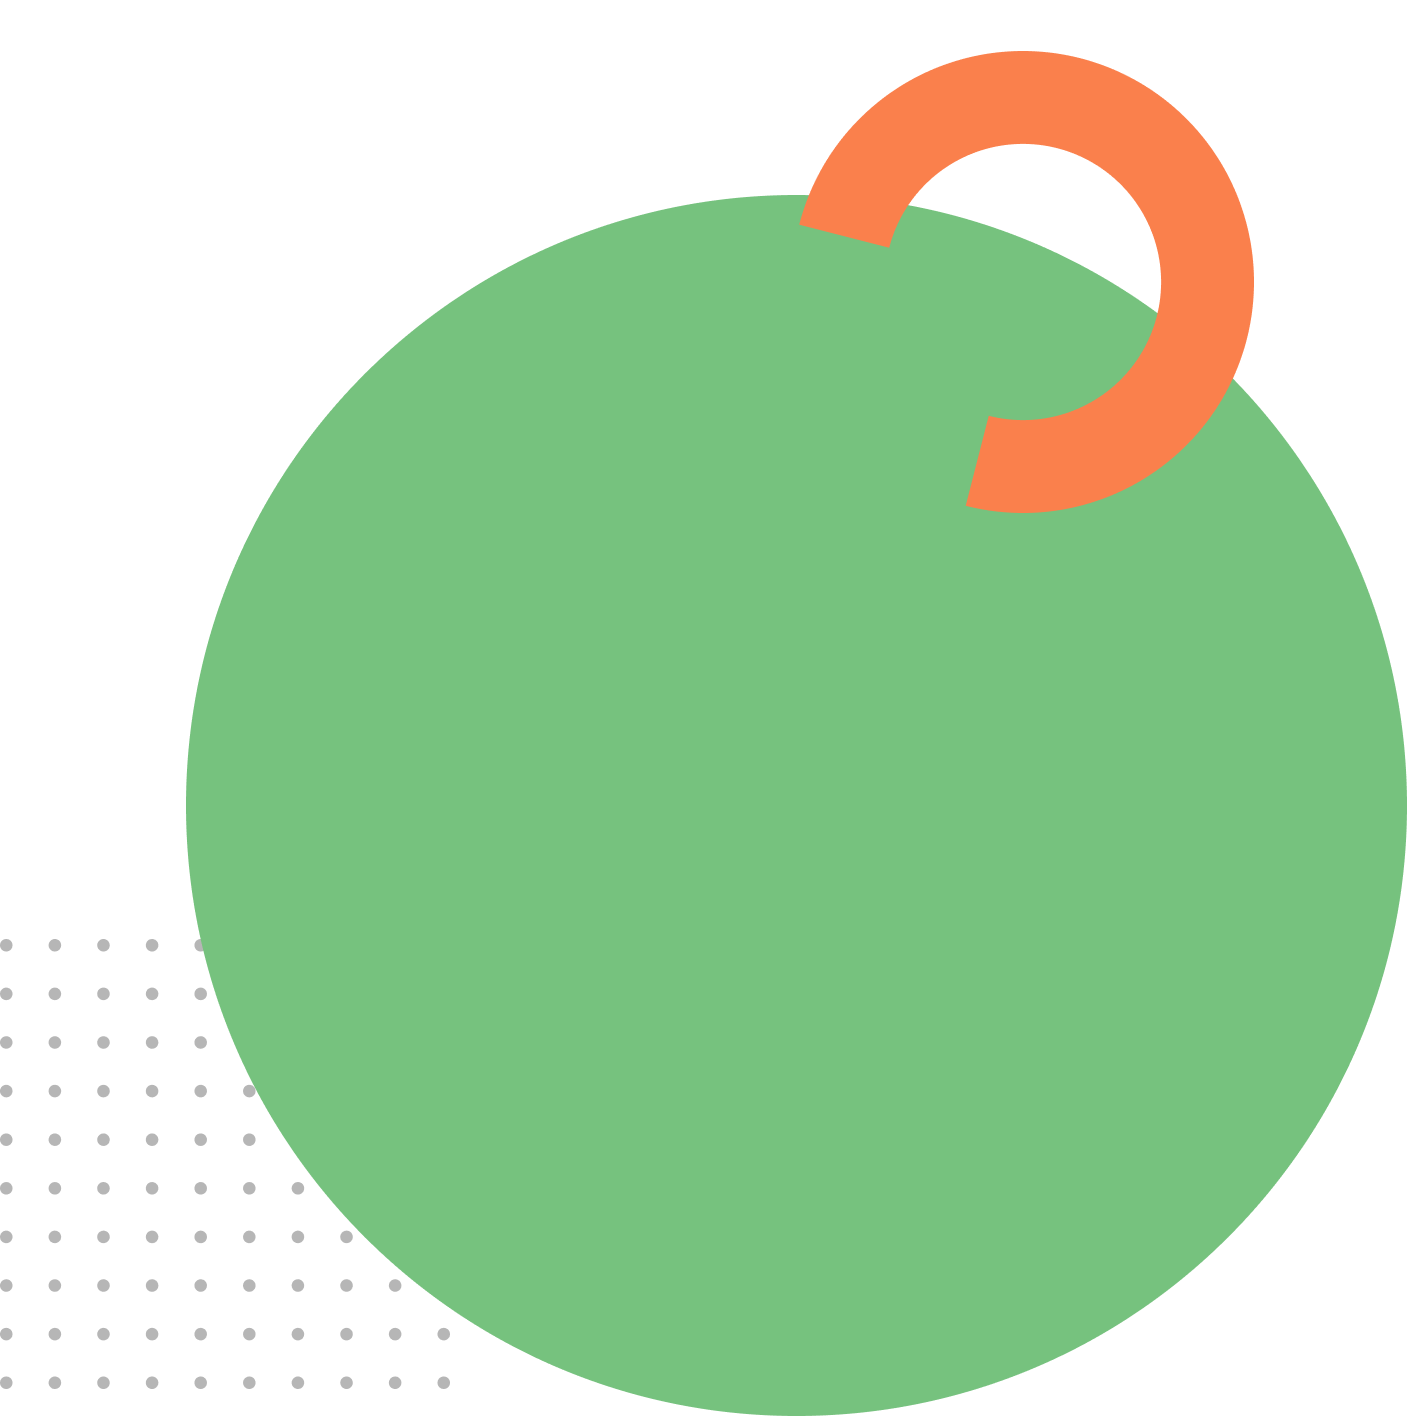
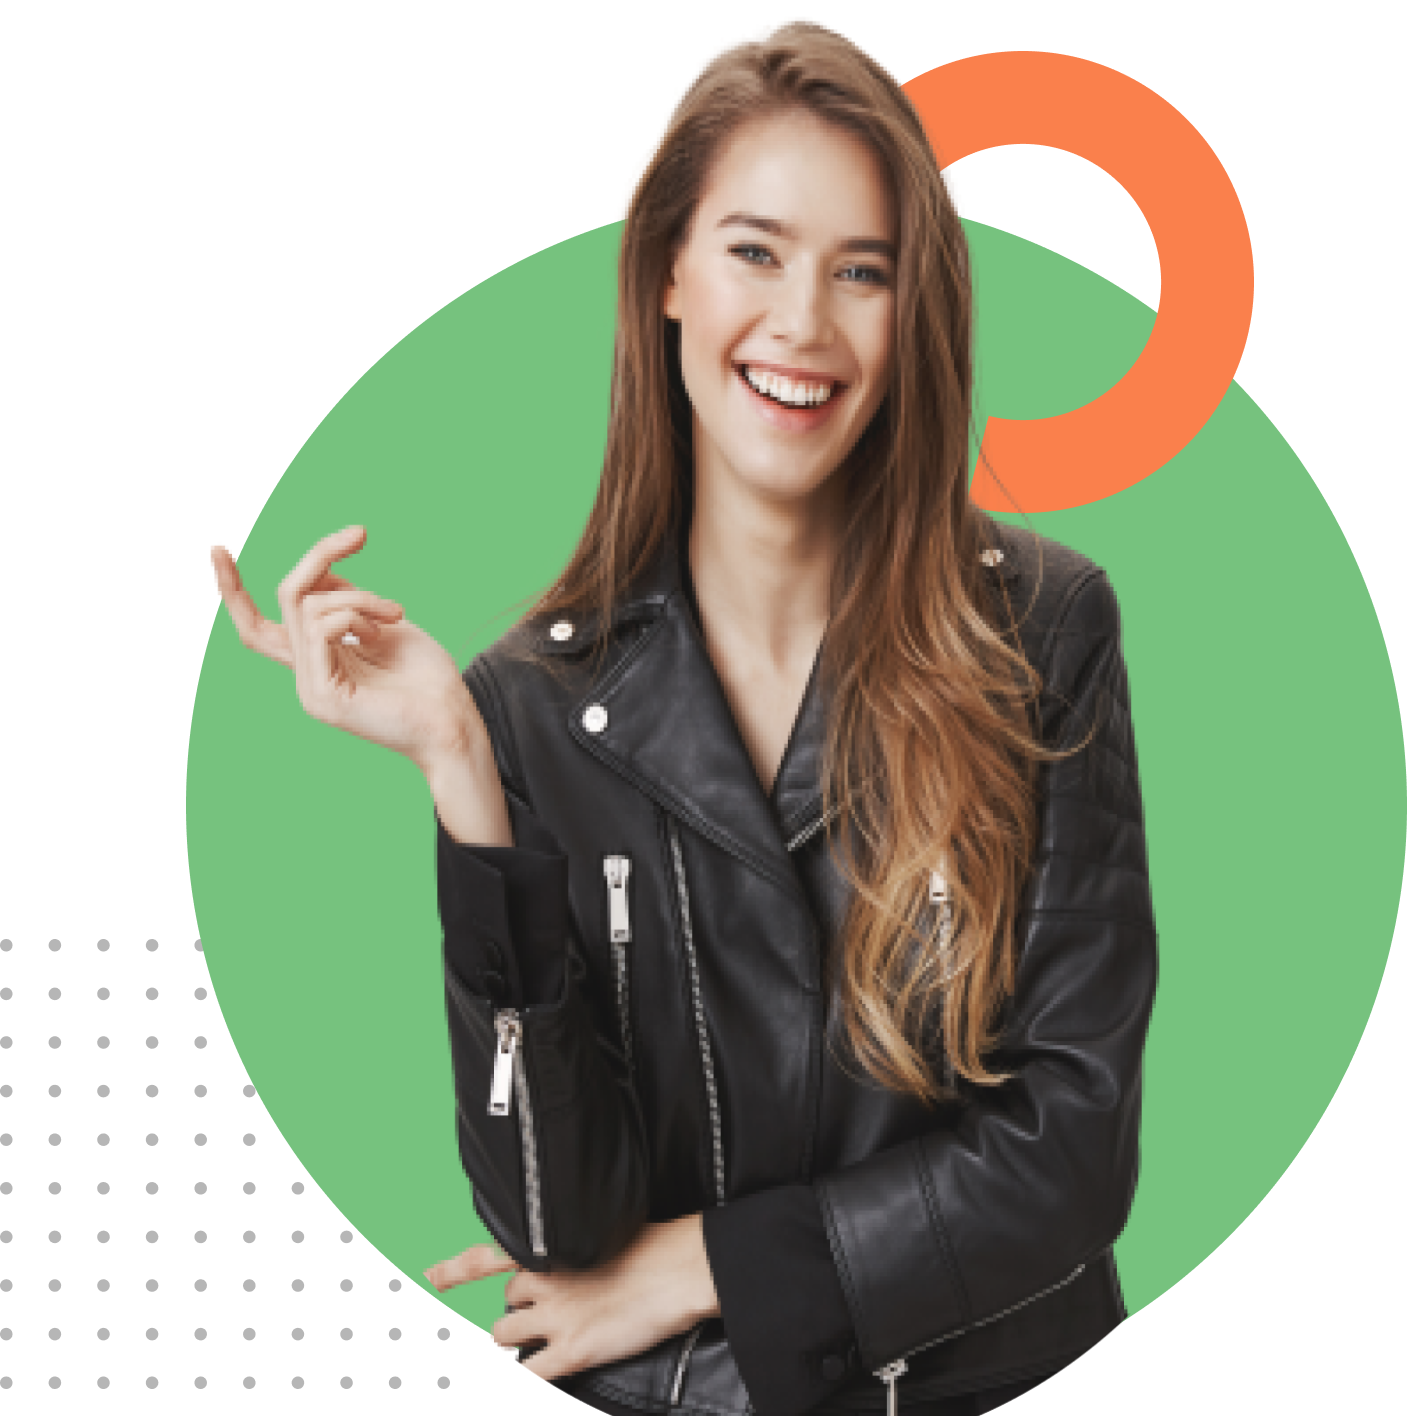
add my web-site

diff --git a/index.html b/index.html
@@ -4,8 +4,228 @@
     <meta charset="UTF-8">
     <meta name="viewport" content="width=device-width, initial-scale=1.0">
     <title>my-first-bootstrap-website</title>
+    <link href="https://cdn.jsdelivr.net/npm/bootstrap@5.0.0-beta1/dist/css/bootstrap.min.css" rel="stylesheet" integrity="sha384-giJF6kkoqNQ00vy+HMDP7azOuL0xtbfIcaT9wjKHr8RbDVddVHyTfAAsrekwKmP1" crossorigin="anonymous">
+    <link rel="stylesheet" href="style.css">
 </head>
 <body>
-    
+
+
+
+    <header class="container">
+    <nav class="navbar navbar-expand-lg navbar-light bg-light sticky-top">
+        <div class="container-fluid">
+          <a href=""><img style="width:60%;" src="images/Group 33072.png" alt=""></a>
+          <button class="navbar-toggler" type="button" data-bs-toggle="collapse" data-bs-target="#navbarNav" aria-controls="navbarNav" aria-expanded="false" aria-label="Toggle navigation">
+            <span class="navbar-toggler-icon"></span>
+          </button>
+          <div class="collapse navbar-collapse justify-content-end" id="navbarNav">
+            <ul class="navbar-nav">
+              <li class="nav-item">
+                <a class="nav-link active" aria-current="page" href="#home">Home</a>
+              </li>
+              <li class="nav-item">
+                <a class="nav-link" href="#product">Product</a>
+              </li>
+              <li class="nav-item">
+                <a class="nav-link" href="www.gmail.com">About us</a>
+              </li>
+              <li class="nav-item">
+                <a class="nav-link" href="www.gmail.com" tabindex="-1" aria-disabled="true">Contact us</a>
+              </li>
+            </ul>
+          </div>
+        </div>
+      </nav>
+
+
+
+      
+          
+            <div class="row">
+
+                <div class="col-md-6 mt-5">
+                <h1>BE THE PENGUINS</h1>
+                <H1>OF WINTER</H1>
+                <p>Lorem Ipsum is simply dummy text of the printing</p>
+                <p>and typesetting industry.</p>
+                <button class="btn btn-warning">Buy Now</button>
+                <div class="button rounded d-flex justify-content-around align-items-center">
+            </div>
+            </div>
+            <div class="col-md-6">
+                <img style="margin-left: 80px; width: 70%;" src ="images/green.png"  class="d-block w-100" alt="..."> 
+                
+            </div>
+            </div>
+      </header>
+ 
+      
+
+          
+
+          <main class="container">
+          <section class="mt-5">
+              <h1>WOMAN JACKET</h1>
+            <div class="row row-cols-1 row-cols-md-3 g-4">
+                <div class="col">
+                  <div class="card panda-card h-100 shadow">
+                    <img  style= "width:60%;" src="images/SeekPng 1.png" class="card-img-top" alt="...">
+                    <div class="card-body">
+                      <h5 class="card-title">Yellow Coat Jacket </h5>
+                      <p class="card-text">Lorem Ipsum is simply dummy text of the printing and typesetting industry. </p>
+                    </div>
+                    <div class="card-footer panda-card-footer">
+                        <h5>$234</h5>
+                      <button class="btn btn-warning" data-bs-toggle="tooltip" data-bs-placement="Left" title="Tooltip on Left">Buy Now</button>
+                    </div>
+                  </div>
+                </div>
+                <div class="col">
+                  <div class="card panda-card h-100 shadow">
+                    <img style= "width:50%;" src="images/PngItem_2597366 1.png" class="card-img-top" alt="...">
+                    <div class="card-body">
+                      <h5 class="card-title">Ladies Jacket </h5>
+                      <p class="card-text">Lorem Ipsum is simply dummy text of the printing and typesetting industry.</p>
+                    </div>
+                    <div class="card-footer panda-card-footer">
+                        <h5>$234</h5>
+                        <button class="btn btn-warning">Buy Now</button>
+                    </div>
+                  </div>
+                </div>
+                <div class="col">
+                  <div class="card panda-card h-100 shadow">
+                    <img style= "width:60%;" src="images/image 15.png" class="card-img-top" alt="...">
+                    <div class="card-body">
+                      <h5 class="card-title">Woman Leather Jacket </h5>
+                      <p class="card-text">Lorem Ipsum is simply dummy text of the printing and typesetting industry.</p>
+                    </div>
+                    <div class="card-footer panda-card-footer">
+                        <h5>$234</h5>
+                        <button class="btn btn-warning">Buy Now</button>
+                    </div>
+                  </div>
+                </div>
+              </div>
+          </section>
+
+
+
+          <section class="mt-5">
+            <h1>MAN JACKET</h1>
+          <div class="row row-cols-1 row-cols-md-3 g-4">
+              <div class="col">
+                <div class="card panda-card h-100 shadow">
+                  <img style= "width:60%;" src="images/image 11.png" class="card-img-top" alt="...">
+                  <div class="card-body">
+                    <h5 class="card-title">Snowboard Jacket Mens</h5>
+                    <p class="card-text">Lorem Ipsum is simply dummy text of the printing and typesetting industry.</p>
+                  </div>
+                  <div class="card-footer panda-card-footer">
+                    <h5>$234</h5>
+                    <button class="btn btn-warning">Buy Now</button>
+                  </div>
+                </div>
+              </div>
+              <div class="col">
+                <div class="card panda-card h-100 shadow">
+                  <img style= "width:60%;" src="images/vippng 1.png" class="card-img-top" alt="...">
+                  <div class="card-body">
+                    <h5 class="card-title">Man Leather Jackets</h5>
+                   <p class="card-text">Lorem Ipsum is simply dummy text of the printing and typesetting industry.</p>
+                  </div>
+                  <div class="card-footer panda-card-footer">
+                      <h5>$234</h5>
+                      <button class="btn btn-warning">Buy Now</button>
+                  </div>
+                </div>
+              </div>
+              <div class="col">
+                <div class="card panda-card h-100 shadow">
+                  <img style= "width:60%;" src="images/toppng 1.png" class="card-img-top" alt="...">
+                  <div class="card-body">
+                    <h5 class="card-title">Man Casual Jackets</h5>
+                    <p class="card-text">Lorem Ipsum is simply dummy text of the printing and typesetting industry.</p>
+                  </div>
+                  <div class="card-footer panda-card-footer">
+                      <h5>$234</h5>
+                      <button class="btn btn-warning">Buy Now</button>
+                  </div>
+                </div>
+              </div>
+            </div>
+        </section>
+
+        <section class=" last-banner container mt-5">
+            <div class="row">
+            <div class=" col-sm-12 col-md-6 col-lg-6">
+            <div class="card shadow mb-3" style="max-width: 540px;">
+                <div class="row g-0">
+                  <div class="col-md-4">
+                    <img src="images/image 12.png" class="w-75">
+                  </div>
+                  <div class="col-md-8">
+                    <div class="card-body">
+                      <h5 class="card-title">Find the Perfect Fit</h5>
+                      <p class="card-text">Everybody is different, which is why we offer styles for every body.</p>
+                    </div>
+                  </div>
+                </div>
+              </div>
+ 
+              <div class="card shadow mb-3" style="max-width: 540px;">
+                <div class="row g-0">
+                  <div class="col-md-4">
+                    <img src="images/image 13.png" class="w-75">
+                  </div>
+                  <div class="col-md-8">
+                    <div class="card-body">
+                      <h5 class="card-title">Free Exchanges</h5>
+                      <p class="card-text">One of the many reasons you can shop with peace of mind.</p>
+                    </div>
+                  </div>
+                </div>
+              </div>
+
+            <div class="card shadow mb-3" style="max-width: 540px;">
+                <div class="row g-0">
+                  <div class="col-md-4">
+                    <img src="images/image 14.png" class="w-75">
+                  </div>
+                  <div class="col-md-8">
+                    <div class="card-body">
+                      <h5 class="card-title">Contact Our Seller</h5>
+                      <p class="card-text">They are here to help you. That's quite literally what we pay them for</p>
+                      <div class="d-flex justify-content-around align-items-center">
+
+                      </div>
+                    </div>
+                  </div>
+                </div>
+               </div>
+            </div>
+               <div class=" col-sm-12 col-md-6 col-lg-6">
+                   <img style="margin-left: 180px; width: 70%;" src="images/XMLID 1.png" class="w-100 d-block last-img" mt-5>
+
+               </div>
+            </div>
+        </section>
+
+        <section style="height: 200px;" class="  bg-secondary d-flex  align-items-center justify-content-center mt-5">
+            <div>
+                <h1>Let's Stay In Touch</h1>
+                <h6>get updates on sales, special and more</h6>
+                <input type="text" placeholder="">
+                <button class="btn btn-warning">SUBMIT</button>
+            </div>
+        </section>
+
+
+      </main>
+<footer class="text-center mt-5">
+    <small>@2021, My e-commerce site.</small>
+</footer>
+
+    <script src="https://cdn.jsdelivr.net/npm/bootstrap@5.0.0-beta1/dist/js/bootstrap.bundle.min.js" integrity="sha384-ygbV9kiqUc6oa4msXn9868pTtWMgiQaeYH7/t7LECLbyPA2x65Kgf80OJFdroafW" crossorigin="anonymous"></script>
 </body>
 </html>

diff --git a/style.css b/style.css
@@ -1,0 +1,12 @@
+.panda-card{
+    border: 0;
+    background-color:whitesmoke;
+
+}
+.panda-card-footer{
+    border: 0;
+    background-color: white;
+}
+.last-banner last-img{
+    display: flex;
+}
